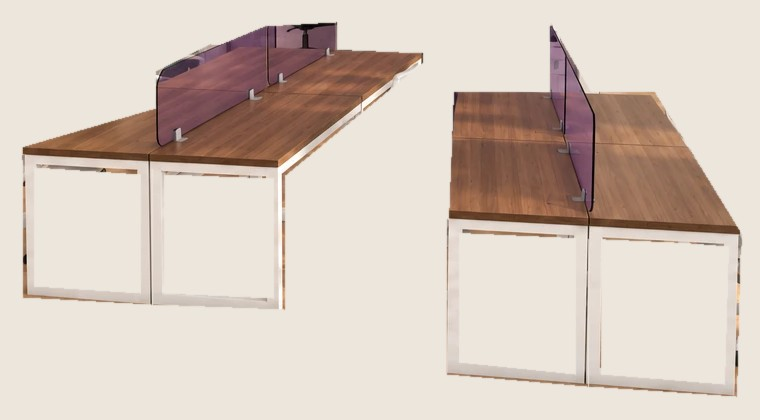
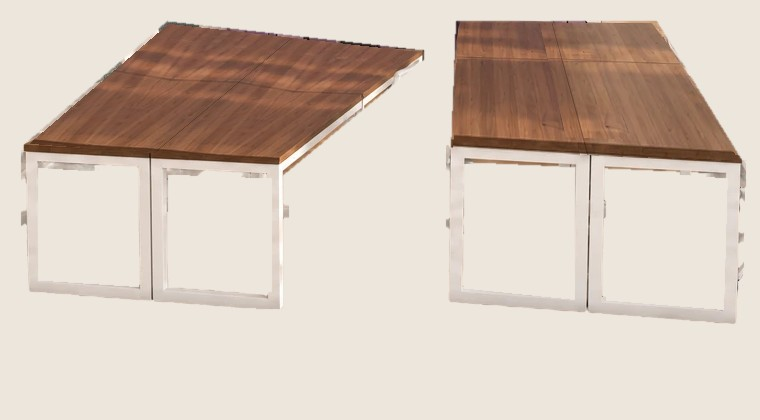
HSE coworking: cleaner desk cutouts, versions without the dividers
Claude-Session: https://claude.ai/code/session_01GRT1vEstUVCb3LeqtuQghB

diff --git a/hse-coworking/tools/cut_desks.py b/hse-coworking/tools/cut_desks.py
@@ -28,7 +28,7 @@ def frame(tl, tr, br, bl, t=12):
 
 white = (sat < .16) & (lum > 95)
 
-L_top = poly([(312, 736), (446, 697), (446, 660), (500, 633), (712, 642), (712, 651), (572, 766), (312, 748)])
+L_top = poly([(312, 737), (456, 613), (712, 642), (712, 651), (572, 766), (312, 748)])
 L_frames = frame((313, 745), (441, 752), (441, 893), (313, 886), 11) | frame((443, 752), (574, 756), (574, 898), (443, 893), 11)
 L_back = poly([(455, 790), (532, 794), (532, 803), (455, 799)]) | poly([(529, 760), (541, 760), (541, 803), (529, 803)])
 L_div = poly([(446, 660), (555, 615), (626, 611), (626, 641), (555, 685), (446, 737)])
@@ -39,14 +39,198 @@ R_back = poly([(1000, 822), (1100, 826), (1100, 840), (1000, 836)]) | poly([(113
 R_div = poly([(1086, 578), (1133, 660), (1133, 771), (1110, 756), (1086, 648)])
 
 
-def cut(mask, name, feather=.6):
-    a = Image.fromarray((mask * 255).astype(np.uint8)).filter(ImageFilter.GaussianBlur(feather))
-    l = im.convert('RGBA'); l.putalpha(a)
+def soft(mask, grow=0, blur=.5):
+    m = Image.fromarray((mask * 255).astype(np.uint8))
+    if grow > 0: m = m.filter(ImageFilter.MaxFilter(2 * grow + 1))
+    if grow < 0: m = m.filter(ImageFilter.MinFilter(-2 * grow + 1))
+    if blur: m = m.filter(ImageFilter.GaussianBlur(blur))
+    return np.asarray(m, np.float32) / 255
+
+
+# whiteness: 1 on white/grey frame paint, 0 on orange parquet and on dark gaps/casters
+whiteness = np.clip((.26 - sat) / .10, 0, 1) * np.clip((lum - 85) / 30, 0, 1)
+whiteness = np.asarray(Image.fromarray((whiteness * 255).astype(np.uint8)).filter(ImageFilter.MedianFilter(3)), np.float32) / 255
+
+
+def cut(top, frames, div, name):
+    a_top = soft(top, grow=0, blur=.6)
+    a_frame = soft(frames, grow=3, blur=0) * whiteness
+    a_div = soft(div, grow=0, blur=.6)
+    a = np.maximum.reduce([a_top, a_frame, a_div])
+    a = np.asarray(Image.fromarray((a * 255).astype(np.uint8)).filter(ImageFilter.GaussianBlur(.4)), np.float32)
+    a[a < 14] = 0                                     # no faint haze around
+    l = im.convert('RGBA'); l.putalpha(Image.fromarray(a.astype(np.uint8)))
     bb = l.getbbox(); l.crop(bb).save(os.path.join(OUT, name)); return bb
 
 
-for side, top, frames, div in (('left', L_top, L_frames, L_div), ('right', R_top, R_frames, R_div)):
-    cut(top | frames | div, f'desk-{side}.png')
+def grow(m, n):
+    if n <= 0: return m.copy()
+    return np.asarray(Image.fromarray((m * 255).astype(np.uint8)).filter(ImageFilter.MaxFilter(2 * n + 1))) > 0
+
+
+def masked_mean(img, m, rad):
+    """local mean of img over pixels where m is set (box of radius rad)."""
+    from_ = np.zeros(img.shape[:2] + (img.shape[2],), np.float64)
+    num = np.stack([box_mean(img[..., k] * m, rad) for k in range(img.shape[2])], -1)
+    den = box_mean(m.astype(np.float32), rad)[..., None]
+    return num / np.maximum(den, 1e-4), den[..., 0]
+
+
+def box_mean(a, rad):
+    k = 2 * rad + 1
+    p = np.pad(a, rad + 1, mode='edge').astype(np.float64)
+    ii = p.cumsum(0).cumsum(1)
+    s = ii[k:, k:] - ii[:-k, k:] - ii[k:, :-k] + ii[:-k, :-k]
+    return (s / (k * k))[:a.shape[0], :a.shape[1]]
+
+
+def remove_divider(rgb, top, div, shifts):
+    out = rgb.copy()
+    divg = grow(div, 2)
+    D = divg & top
+    clean = top & ~grow(div, 3)
+    # local un-tint: ratio of walnut around to glass-covered walnut, per neighbourhood
+    g_out, _ = masked_mean(rgb, clean, 28)
+    g_in, _ = masked_mean(rgb, D, 14)
+    gain = np.clip(g_out / np.maximum(g_in, 1), .6, 2.2)
+    out[D] = np.clip(rgb[D] * gain[D], 0, 255)
+    # anything in D that still is not walnut (glass edges, brackets, things behind the glass) is rebuilt
+    ref, _ = masked_mean(rgb, clean, 18)
+    dist = np.sqrt(((out - ref) ** 2).sum(2))
+    l2 = out @ np.array([.3, .59, .11], np.float32)
+    s2 = (out.max(2) - out.min(2)) / np.maximum(out.max(2), 1)
+    bad = D & ((dist > 42) | (s2 < .25) | (l2 < 45))
+    bad = grow(bad, 2) & D
+    # fill: walnut texture copied from nearby clean walnut (first shift that lands on clean wood),
+    # brightness matched to the local neighbourhood
+    filled = out.copy(); done = ~bad
+    for dx, dy in shifts:
+        src = np.roll(np.roll(out, -dy, 0), -dx, 1)
+        ok = np.roll(np.roll(clean, -dy, 0), -dx, 1)
+        take = bad & ~done & ok
+        filled[take] = src[take]; done |= take
+    # whatever is still missing: diffuse from neighbours
+    known = done.copy()
+    for _ in range(80):
+        if known.all() or not (bad & ~known).any(): break
+        acc = np.zeros_like(filled); cnt = np.zeros(known.shape, np.float32)
+        for ddy in (-1, 0, 1):
+            for ddx in (-1, 0, 1):
+                if ddx == ddy == 0: continue
+                k = np.roll(np.roll(known, ddy, 0), ddx, 1)
+                acc += np.roll(np.roll(filled, ddy, 0), ddx, 1) * k[..., None]; cnt += k
+        new = bad & ~known & (cnt > 0)
+        filled[new] = acc[new] / cnt[new][:, None]; known |= new
+    # match local brightness of the rebuilt part, then soften the seam
+    m_f, _ = masked_mean(filled, bad, 10)
+    m_c, _ = masked_mean(filled, clean | (D & ~bad), 22)
+    filled[bad] = np.clip(filled[bad] * (m_c[bad] / np.maximum(m_f[bad], 1)), 0, 255)
+    blur = np.asarray(Image.fromarray(filled.astype(np.uint8)).filter(ImageFilter.GaussianBlur(1.2)), np.float32)
+    edge = grow(bad, 2) & ~bad
+    filled[edge] = filled[edge] * .5 + blur[edge] * .5
+    return filled
+
+
+def cut_rgb(rgb, top, frames, name):
+    a_top = soft(top, grow=0, blur=.6)
+    a_frame = soft(frames, grow=3, blur=0) * whiteness
+    a = np.maximum(a_top, a_frame)
+    a = np.asarray(Image.fromarray((a * 255).astype(np.uint8)).filter(ImageFilter.GaussianBlur(.4)), np.float32)
+    a[a < 14] = 0
+    l = Image.fromarray(rgb.astype(np.uint8)).convert('RGBA'); l.putalpha(Image.fromarray(a.astype(np.uint8)))
+    l.crop(l.getbbox()).save(os.path.join(OUT, name))
+
+
+# ---- dividers removed in a rectified (top-down) view of each table top, where the grain is straight
+def persp_coeffs(src_pts, dst_pts):
+    """coefficients for Image.transform(PERSPECTIVE): maps output point (in dst) -> input point (in src)."""
+    A, B = [], []
+    for (x, y), (u, v) in zip(dst_pts, src_pts):
+        A.append([x, y, 1, 0, 0, 0, -u * x, -u * y]); B.append(u)
+        A.append([0, 0, 0, x, y, 1, -v * x, -v * y]); B.append(v)
+    return np.linalg.solve(np.array(A, np.float64), np.array(B, np.float64)).tolist()
+
+
+def rectify(quad, size):
+    ul, ll, lr, ur = quad
+    return im.transform(size, Image.QUAD, (*ul, *ll, *lr, *ur), Image.BICUBIC)
+
+
+def unrectify(rect, quad):
+    w, h = rect.size
+    ul, ll, lr, ur = quad
+    co = persp_coeffs([(0, 0), (0, h), (w, h), (w, 0)], [ul, ll, lr, ur])
+    return rect.transform((W, H), Image.PERSPECTIVE, co, Image.BICUBIC)
+
+
+def mirror_cols(n, start, end):
+    """index map for mirror-tiling the column range [start, end) across n columns."""
+    period = end - start
+    idx = np.arange(n) - start
+    k = np.mod(idx, 2 * period)
+    return start + np.where(k < period, k, 2 * period - 1 - k)
+
+
+def fix_left():
+    quad = [(456, 613), (312, 737), (572, 756), (712, 642)]
+    w, h = 520, 220
+    r = np.asarray(rectify(quad, (w, h)), np.float32).copy()
+    src0, src1 = 372, 496                     # clean walnut, grain runs along the rows
+    cols = mirror_cols(w, src0, src1)
+    out = r.copy()
+    out[:, :src0] = r[:, cols[:src0]]
+    # the join between the two tables (vertical) and between back/front tables (horizontal) stay visible
+    out[:, 248:250] *= .78
+    for (x0, y0, x1, y1) in ((372, 0, 400, 30),):
+        out[y0:y1, x0:x1] = r[y0:y1, x0 + 40:x1 + 40]
+    out[:16] = out[16:32][::-1]                           # back rim: no dark remnants from behind the table
+    return quad, Image.fromarray(np.clip(out, 0, 255).astype(np.uint8))
+
+
+def fix_right():
+    quad = [(990, 648), (985, 778), (1277, 790), (1190, 648)]
+    w, h = 400, 300
+    r = np.asarray(rectify(quad, (w, h)), np.float32).copy()
+    out = r.copy()
+    band0, band1 = 172, 266                   # divider + brackets (grain runs along the columns)
+    FE = 270                                  # rows below are the front edge (thickness) of the top
+    src = np.arange(band0 - (band1 - band0), band0)
+    out[:FE, band0:band1] = r[:FE, src]
+    # match brightness of the inserted planks to their right-hand neighbours, row by row
+    gl = r[:FE, band1:band1 + 12].mean(1, keepdims=True) / np.maximum(r[:FE, src[-12:]].mean(1, keepdims=True), 1)
+    ramp = np.linspace(0, 1, band1 - band0, dtype=np.float32)[None, :, None]
+    out[:FE, band0:band1] *= (1 + (gl - 1) * ramp)
+    # soft seams on both sides of the insert
+    for x in range(6):
+        t = (x + 1) / 7
+        out[:FE, band0 + x] = out[:FE, band0 + x] * t + r[:FE, band0 + x - 7] * 0 + out[:FE, band0 - 1] * (1 - t) if False else out[:FE, band0 + x]
+        out[:FE, band1 - 1 - x] = out[:FE, band1 - 1 - x] * t + r[:FE, band1 + 1] * (1 - t) * 0 + out[:FE, band1 - 1 - x] * (1 - t)
+    out[:FE, 196:198] *= .82                  # centre join between the two desks
+    # front edge: only the divider's black foot line needs replacing
+    out[FE:, 186:206] = r[FE:, 166:186]
+    out[FE:, 196:198] *= .8
+    return quad, Image.fromarray(np.clip(out, 0, 255).astype(np.uint8))
+
+
+def build(side, top, frames, fixer):
+    quad, rect = fixer()
+    warped = np.asarray(unrectify(rect, quad).convert('RGB'), np.float32)
+    qmask = poly([quad[0], quad[3], quad[2], quad[1]])
+    rgb = c.copy()
+    inner = qmask & ~grow(~qmask, 2)
+    rgb[inner] = warped[inner]
+    band = top & ~qmask & grow(div_of[side], 4)
+    if band.any():
+        ys, xs = np.nonzero(band)
+        rgb[ys, xs] = c[ys, np.clip(xs + 70, 0, W - 1)]
+    top_full = top | qmask
+    cut_rgb(rgb, top_full, frames, f'desk-{side}.png')
+
+
+div_of = {'left': L_div, 'right': R_div}
+for side, top, frames, div, fixer in (('left', L_top, L_frames, L_div, fix_left), ('right', R_top, R_frames, R_div, fix_right)):
+    cut(top, frames, div, f'desk-{side}-with-divider.png')
+    build(side, top, frames, fixer)
 
 # check on a neutral background
 sheet = Image.new('RGB', (760, 420), (236, 230, 221))
